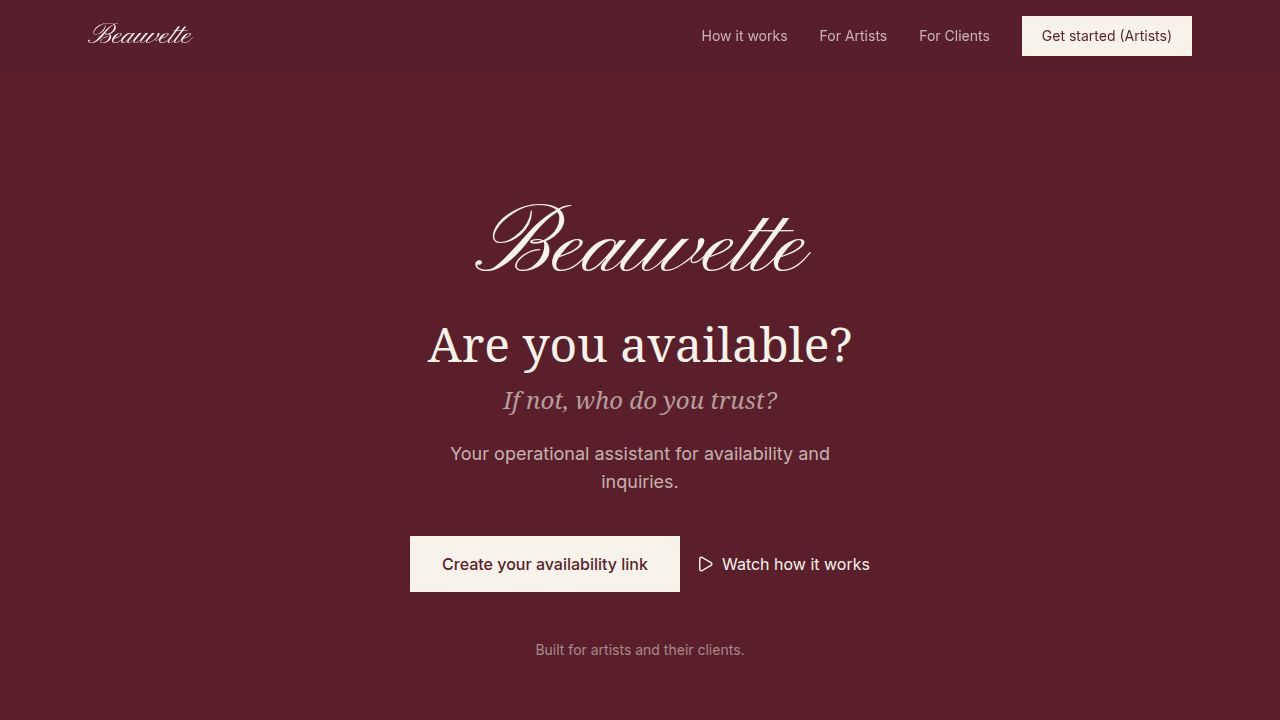
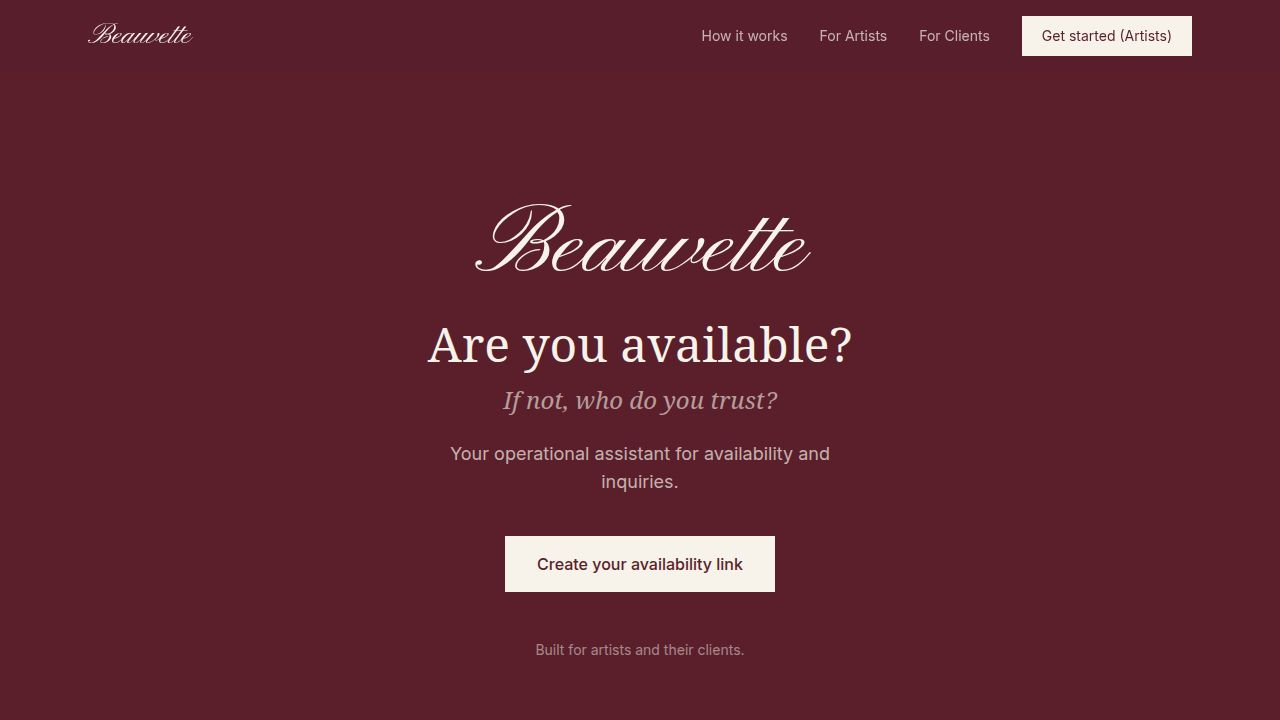
Update landing page content for client and artist sections
Remove the "See an example" button from the artists section and update the clients section copy, including a new tagline and bullet points.

Replit-Commit-Author: Agent
Replit-Commit-Session-Id: 61e47fb2-881c-4817-8f8c-51c2bed33106
Replit-Commit-Checkpoint-Type: full_checkpoint
Replit-Commit-Event-Id: 722b6dbe-d13e-47cb-9c00-ba372fb3f84a
Replit-Commit-Screenshot-Url: https://storage.googleapis.com/screenshot-production-us-central1/e8599704-1e72-4097-8c86-37ef455a3ec6/61e47fb2-881c-4817-8f8c-51c2bed33106/P1FcFzT

Changed region(s): [[0.3125, 0.7333, 0.6875, 0.825]]

diff --git a/client/src/pages/Landing.tsx b/client/src/pages/Landing.tsx
@@ -45,11 +45,14 @@ const CONTENT = {
       "One place for clients, photos, and chat (coming soon)"
     ],
     primaryCta: "Get started",
-    secondaryCta: "See an example"
   },
   clients: {
     title: "For Clients",
-    copy: "Find artists by date. Get answers instantly. No waiting on DMs.",
+    tagline: "Discover artists by date, availability, and trust.",
+    bullets: [
+      "Request information clearly.",
+      "Move forward with confidence."
+    ],
     cta: "Join the client waitlist"
   },
   footer: {
@@ -246,22 +249,13 @@ export default function Landing() {
             ))}
           </ul>
 
-          <div className="flex flex-col sm:flex-row items-center justify-center gap-4">
-            <button
-              onClick={() => setLocation("/onboarding")}
-              className="w-full sm:w-auto px-8 py-4 bg-[#F7F2EA] text-[#5A1F2B] text-base font-medium hover:bg-[#EDE8E0] transition-colors"
-              data-testid="button-artists-primary"
-            >
-              {CONTENT.artists.primaryCta}
-            </button>
-            <button
-              onClick={() => setLocation("/sarah")}
-              className="text-[#F7F2EA] hover:text-[#F7F2EA]/80 underline underline-offset-4 transition-colors"
-              data-testid="button-artists-secondary"
-            >
-              {CONTENT.artists.secondaryCta}
-            </button>
-          </div>
+          <button
+            onClick={() => setLocation("/onboarding")}
+            className="w-full sm:w-auto px-8 py-4 bg-[#F7F2EA] text-[#5A1F2B] text-base font-medium hover:bg-[#EDE8E0] transition-colors"
+            data-testid="button-artists-primary"
+          >
+            {CONTENT.artists.primaryCta}
+          </button>
         </div>
       </section>
 
@@ -271,9 +265,16 @@ export default function Landing() {
           <h2 className="font-serif text-3xl md:text-4xl text-[#5A1F2B] mb-6">
             {CONTENT.clients.title}
           </h2>
-          <p className="text-lg text-[#5A1F2B]/70 mb-10">
-            {CONTENT.clients.copy}
+          <p className="text-xl md:text-2xl text-[#5A1F2B]/80 mb-8">
+            {CONTENT.clients.tagline}
           </p>
+          <div className="space-y-2 mb-12">
+            {CONTENT.clients.bullets.map((bullet, index) => (
+              <p key={index} className="text-lg text-[#5A1F2B]/70">
+                {bullet}
+              </p>
+            ))}
+          </div>
           <button
             onClick={() => setLocation("/waitlist")}
             className="px-8 py-4 border border-[#5A1F2B] text-[#5A1F2B] text-base font-medium hover:bg-[#5A1F2B] hover:text-[#F7F2EA] transition-colors"
